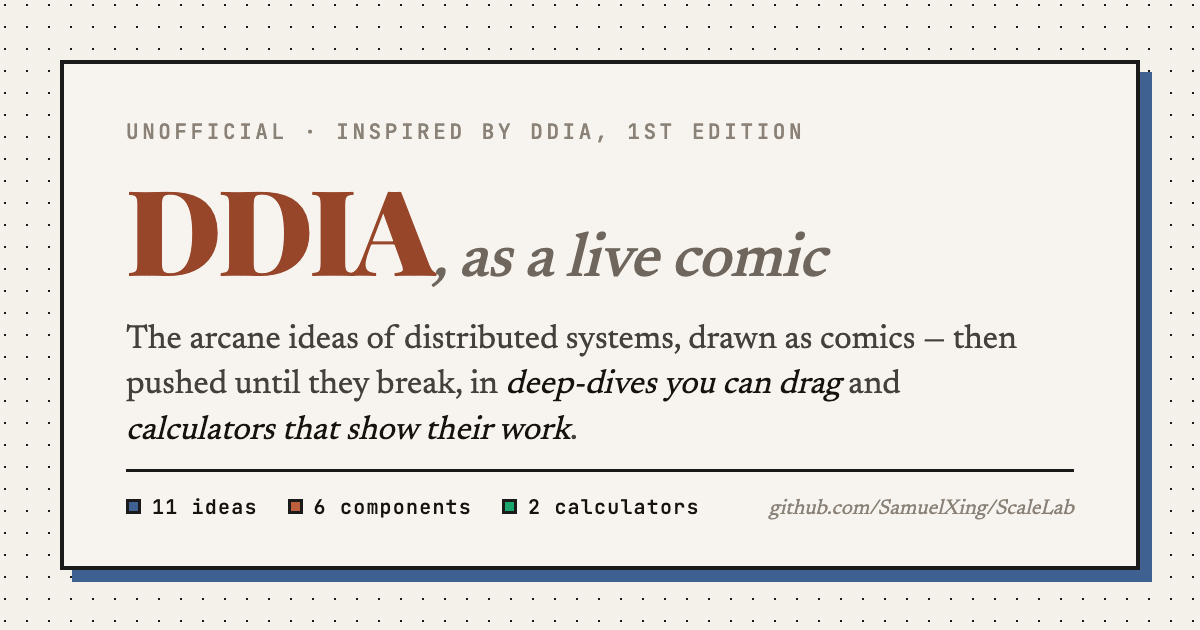
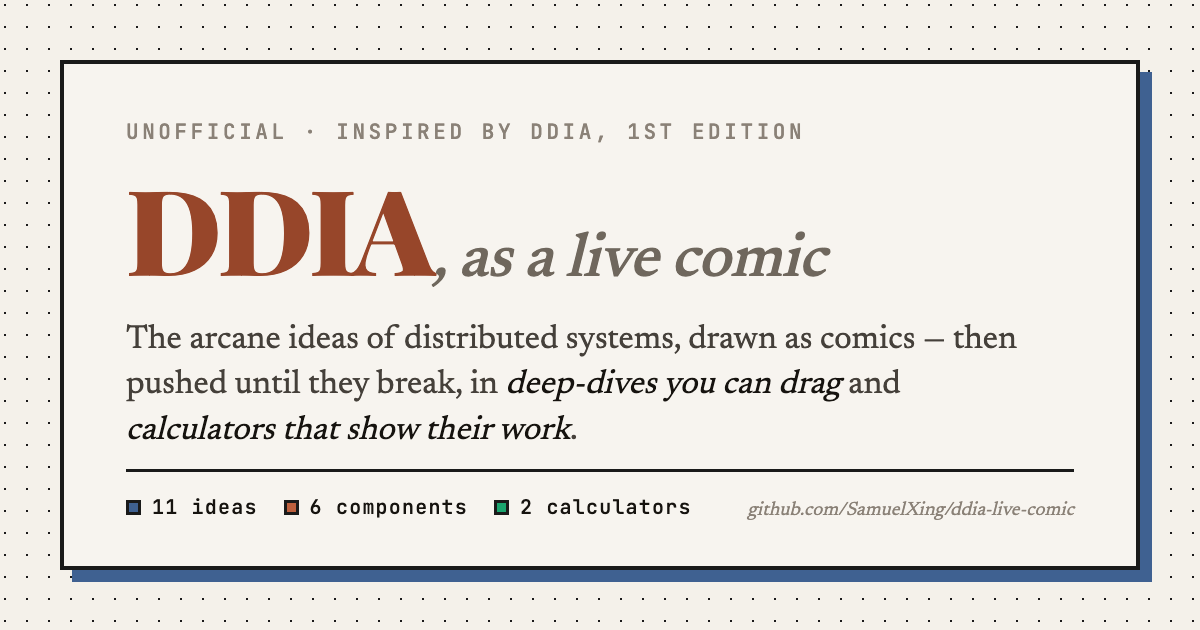
Rename to ddia-live-comic (#25)
The repo said ScaleLab while the site said "DDIA, as a live comic", and
it is public now, so the name is the first thing anyone reads. Renamed on
GitHub; the old URL redirects indefinitely for both web and git remotes,
so existing links and clones keep working.

ddia-live-comic also matches the origin already baked into src/site.ts
and the og: tags, so naming the Cloudflare Pages project the same thing
lines up repo, site and social card with no further edits.

Follows: REPO_URL, package.json name and description, the roadmap title,
and the URL rendered into the social card. The longer URL wrapped the
card's footer onto two lines and dragged the layer counts with it, so
that row is now nowrap at a slightly smaller size.

Left alone: the scalelab-design skill keeps its directory name. It is
internal tooling, its own description already says "formerly Scale Lab",
and renaming it would break every relative link inside it for no reader-
facing gain.

Changed region(s): [[0.6167, 0.7841, 0.8942, 0.8444], [0.2158, 0.7841, 0.5858, 0.8143]]

diff --git a/src/site.ts b/src/site.ts
@@ -1,7 +1,7 @@
 /** One place for the handful of facts about this site that live outside the
  *  code: where the source is, and where it is published. The nav, the footer,
  *  and the social-card metadata all read from here so they cannot disagree. */
-export const REPO_URL = 'https://github.com/SamuelXing/ScaleLab'
+export const REPO_URL = 'https://github.com/SamuelXing/ddia-live-comic'
 
 /** The canonical origin, used for absolute og:image / og:url. Update this in
  *  one place after the first deploy assigns a hostname (or when a custom

diff --git a/ROADMAP.md b/ROADMAP.md
@@ -1,4 +1,4 @@
-# Scale Lab — Roadmap
+# DDIA, as a live comic — Roadmap
 
 A living list of where the project is headed. Ordered roughly by sequence, not priority.
 
